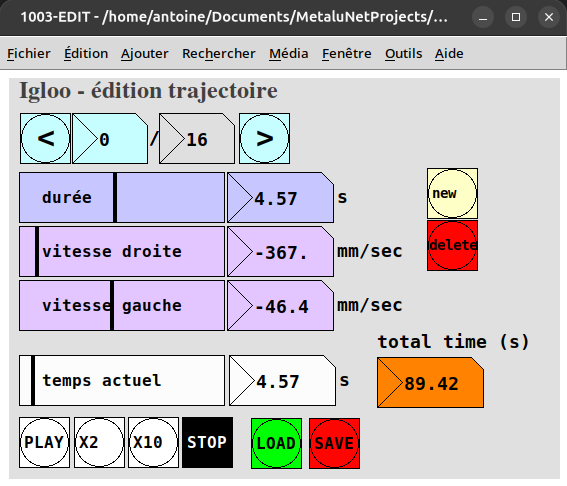
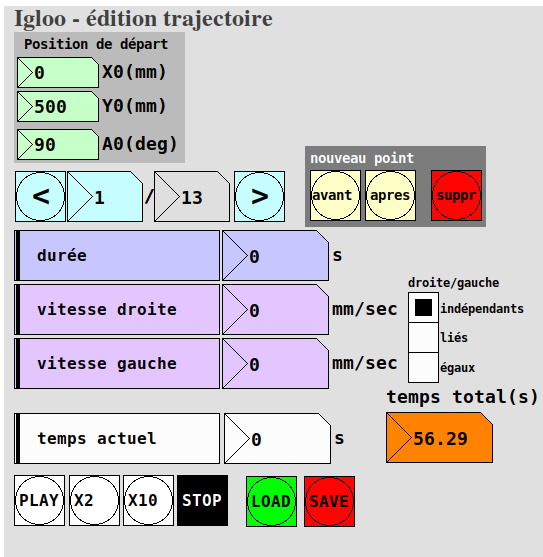
update README and screenshots

diff --git a/README.md b/README.md
@@ -85,11 +85,9 @@ Le bouton **EDIT** ouvre la fenêtre d'édition de la trajectoire (cf chapitre *
 
 Cette fenêtre permet d'éditer la trajectoire courante, de la faire jouer visuellement, et également d'effectuer des sauvegardes et de les recharger.
 
-La trajectoire est définie comme une suite de points, pour lesquels on spécifie la vitesse de chacun des moteurs et la durée du segment.
+La trajectoire est définie par une position de départ et une suite de points, pour lesquels on spécifie la vitesse de chacun des moteurs et la durée du segment.
 
-La position de départ est fixée ; on peut la changer dans stuff/CONFIG, en éditant la valeur du message connecté à l'objet `[s $0-INIT_XY]`, mais cela aura pour effet de décaler toutes les trajectoires déja enregistrées.
-
-Le bouton **new** permet de créer un nouveau point juste avant le point actuel, le bouton **delete** de supprimer le point actuel.
+Les boutons **nouveau point** permet de créer un nouveau point **avant** ou **après** le point actuel, le bouton **suppr** de supprimer le point actuel.
 
 Les boutons **PLAY**, **X2** (deux fois plus vite), **X10** ou **STOP** (dix fois plus vite) permettent de lancer ou arrêter l'animation sur la fenêtre graphique, mais n'envoient pas d'instruction aux moteurs. De même le slider **temps actuel** permet de déplacer manuellement la représentation de l'igloo tout au long du parcours.
 